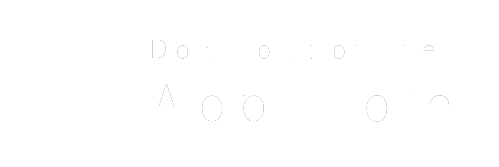
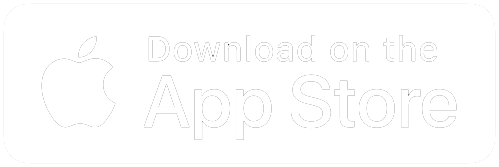
마지막 페이지 완성 (버튼)

diff --git a/src/main/resources/templates/main.html b/src/main/resources/templates/main.html
@@ -71,14 +71,26 @@
             </div>
 
             <div class="section2__faq">
+<!--                <div>-->
+<!--                    <div class="section2__faq__q accordion1" >Q1. 가정 교배에 초점을 두는 이유?-->
+<!--                        <div class="toggle-button-cover">-->
+<!--                            <div class="button-cover">-->
+<!--                                <div class="button r" id="button-1">-->
+<!--                                    <input type="checkbox" class="checkbox" />-->
+<!--                                    <div class="knobs"></div>-->
+<!--                                    <div class="layer"></div>-->
+<!--                                </div>-->
+<!--                            </div>-->
+<!--                        </div>-->
+<!--                    </div>-->
+<!--                    <div class="section2__faq__q__answer" id="answer1"><p>반려동물 입양 방법에는 펫샵, 유기동물, 브리더, 가정 등 여러 입양방법이 있습니다. 하지만 각 입양방법마다 단점들이 존재합니다. 펫샵은 강아지공장을 통해 반려동물을 유통한다는 윤리적인 문제점이, 브리더는 윤리적이지만 비싸고, 공급측면에서 수요를 따라갈 수 없습니다. 이와 더불어 유기동물은 이미 아픔을 겪었기 때문에 아이들에게도, 새로운 보호자에게도 부담될 수 있습니다. 이에 제일 적합한 방법으로 가정을 통한 입양을 제안할 수 있지만 플랫폼 없이는 많은 제약이 따릅니다. 그래서 트리펫은 제안하고자 합니다. 가정교배의 불편함을 해소하고, 입양을 하기 위해서는 보호자로써 자격검증을 필수로 받아야하는 새로운 반려문화가 형성될 수 있도록 변화시키겠습니다.</p></div>-->
+<!--                </div>-->
+
+
                 <div>
-                    <div class="section2__faq__q accordion1" >Q1. 가정 교배에 초점을 두는 이유?
-                        <input id="accordion1-btn" class="flat-btn accordion1-flat " type="checkbox">
-                        <label class="accordion-btn" for="accordion1-btn"></label>
-                    </div>
+                    <div class="section2__faq__q accordion1" >Q1. 가정 교배에 초점을 두는 이유?</div>
                     <div class="section2__faq__q__answer" id="answer1"><p>반려동물 입양 방법에는 펫샵, 유기동물, 브리더, 가정 등 여러 입양방법이 있습니다. 하지만 각 입양방법마다 단점들이 존재합니다. 펫샵은 강아지공장을 통해 반려동물을 유통한다는 윤리적인 문제점이, 브리더는 윤리적이지만 비싸고, 공급측면에서 수요를 따라갈 수 없습니다. 이와 더불어 유기동물은 이미 아픔을 겪었기 때문에 아이들에게도, 새로운 보호자에게도 부담될 수 있습니다. 이에 제일 적합한 방법으로 가정을 통한 입양을 제안할 수 있지만 플랫폼 없이는 많은 제약이 따릅니다. 그래서 트리펫은 제안하고자 합니다. 가정교배의 불편함을 해소하고, 입양을 하기 위해서는 보호자로써 자격검증을 필수로 받아야하는 새로운 반려문화가 형성될 수 있도록 변화시키겠습니다.</p></div>
                 </div>
-
                 <div>
                     <div class="section2__faq__q accordion2">Q2. 서비스를 시작하게 된 동기?</div>
                     <div class="section2__faq__q__answer" id="answer2"><p>저희는 강아지공장과 펫샵의 유착을 통한 반려문화 교배&입양시장에 회의감을 느끼고 새로운 서비스를 만들 수 없을까 많은 고민을 했습니다. 이와 관련하여 반려문화시장을 조사하던 중 많은 보호자분들 사이에서 가정교배가 활성화되어 있다는 것을 발견했습니다. 하지만 이를 이용할 수 있는 수단이 부족하다는 판단에 이르게 되었습니다. 따라서 가정교배와 입양만으로도 충분히 새로운 반려문화를 만들어 나갈 수 있도록 앱 서비스를 제공하고자 하며, ‘TREE PET’ 이라는 어플명으로 출시하게 되었습니다.</p></div>
@@ -151,12 +163,30 @@
                     <img src="images/logo/treePet/mainLogo-image-origin.png" alt="TreePet Logo" class="section8__img">
                 </div>
 
-<!--                <button class="section8-downloadButton-ios open-ios">-->
-                    <img src="images/downloadBadge/app-store-badge-black.png" class="section8-downloadButton-ios open-ios" style="display: block">
-<!--                </button>-->
-<!--                <button class="section8-downloadButton-android open-android">-->
-                    <img src="images/downloadBadge/google-play-badge-color.png" class="section8-downloadButton-android open-android" style="display: block">
-<!--                </button>-->
+                <div>
+                    <img  src="images/downloadBadge/app-store-badge-white-0333.png"
+                          class="section8-downloadButton-ios open-ios"
+                          style="display: block"
+                          onmouseover="this.src='images/downloadBadge/app-store-badge-black-0333.png'"
+                          onmouseout="this.src='images/downloadBadge/app-store-badge-white-0333.png'">
+                </div>
+
+                <div>
+                    <img  src="images/downloadBadge/google-play-badge-white-0111.png"
+                          class="section8-downloadButton-android open-android"
+                          style="display: block"
+                          onmouseover="this.src='images/downloadBadge/google-play-badge-black-0111.png'"
+                          onmouseout="this.src='images/downloadBadge/google-play-badge-white-0111.png'">
+                </div>
+
+<!--                <div class="section8-downloadButton-joint">-->
+<!--                    <img src="images/downloadBadge/app-store-badge-black-0333.png" class="section8-downloadButton-ios open-ios" style="display: block">-->
+<!--                </div>-->
+
+<!--                <div class="section8-downloadButton-joint">-->
+<!--                    <img src="images/downloadBadge/google-play-badge-white-0111.png" class="section8-downloadButton-android open-android" style="display: block">-->
+<!--                </div>-->
+
 
                 <div class="section8__modal-popup modal hidden">
                     <div class="section8__modal-popup__overlay"></div>

diff --git a/src/main/resources/static/css/main/main.css b/src/main/resources/static/css/main/main.css
@@ -110,43 +110,6 @@ p.cursor {
     margin-left: 10em;
 }
 
-input[id*="section2__faq__accordion__q"] {
-    display: none;
-}
-
-label[for*="section2__faq__accordion__q"] {
-    display: block;
-    padding: 10px;
-    border: 1px solid black;
-    color: white;
-    font-weight: 500;
-    background: #551cee;
-    cursor: pointer;
-}
-
-label[for*="section2__faq__accordion__q"] em {
-    position: absolute;
-    top: 50%;
-    right: 10px;
-    width: 30px;
-    height: 30px;
-    margin-top: -15px;
-    display: inline-block;
-    background: url("images/main/arrow-down-circle.svg") 0 0 no-repeat;
-}
-
-div[class*="section2__faq__accordion__answer__q"] {
-    max-height: 0;
-    transition: all .35s;
-    overflow: hidden;
-    background: #ebf8ff;
-}
-
-div[class*="section2__faq__accordion__answer__q"] p {
-    display: inline-block;
-    padding: 10px;
-}
-
 /* faq */
 .section2__faq__title {
     font-size: 35px;
@@ -173,34 +136,6 @@ div[class*="section2__faq__accordion__answer__q"] p {
     display: none;
 }
 
-.flat-btn {
-    display: none;
-}
-
-.accordion-btn {
-    padding: 2px;
-    transition: all .2s ease;
-    background: #fff;
-    border: 4px solid #f2f2f2;
-    border-radius: 2em;
-    box-sizing: border-box;
-    width: 4em;
-}
- .accordion-btn:after {
-     transition: all .2s ease;
-     background: #f2f2f2;
-     content: "";
-     border-radius: 1em;
- }
-
- .accordion-btn:checked {
-     border: 4px solid #7FC6A6;
- }
-
-.accordion-btn:checked:after {
-    left: 50%;
-    background: #7FC6A6;
-}
 
 .section2-background {
     position: absolute;
@@ -274,21 +209,37 @@ div[class*="section2__faq__accordion__answer__q"] p {
 
 }
 
+.section8-downloadButton-joint:hover {
+    border: 2px solid black;
+}
+
 /* section8 다운로드 버튼 & 팝업창 */
 .section8-downloadButton-ios {
     position: absolute;
     top: 610px;
     right: 970px;
     cursor: pointer;
-    height: 7%;
+    height: 4.5%;
+    border: 2px solid white;
+    border-radius: 40px;
+    padding: 10px 20px 10px 20px;
+}
+.section8-downloadButton-ios:hover {
+    border: 2px solid black;
 }
 
 .section8-downloadButton-android {
     position: absolute;
-    top: 608px;
-    right: 730px;
+    top: 610px;
+    right: 720px;
     cursor: pointer;
-    height: 7.38%;
+    height: 4.5%;
+    border: 2px solid white;
+    border-radius: 40px;
+    padding: 10px 20px 10px 20px;
+}
+.section8-downloadButton-android:hover {
+    border: 2px solid black;
 }
 
 .section8__modal-popup__overlay {
@@ -528,6 +479,7 @@ input::placeholder {
 .section8-footer-logo {
     display: flex;
     align-items: center;
+    margin-left: 40px;
 }
 
 /* section8 footer Logo div */

diff --git a/src/main/resources/static/js/main/main.js b/src/main/resources/static/js/main/main.js
@@ -62,6 +62,7 @@ $(document).ready(function () {
 
         if(answerDisplay  === "none") {
             $("#answer1").slideDown();
+            $("#answer2").slideUp();
         } else {
             $("#answer1").slideUp();
         }
@@ -75,6 +76,7 @@ $(document).ready(function () {
 
         if(answerDisplay === "none") {
             $("#answer2").slideDown();
+            $("#answer1").slideUp();
         } else {
             $("#answer2").slideUp();
         }
